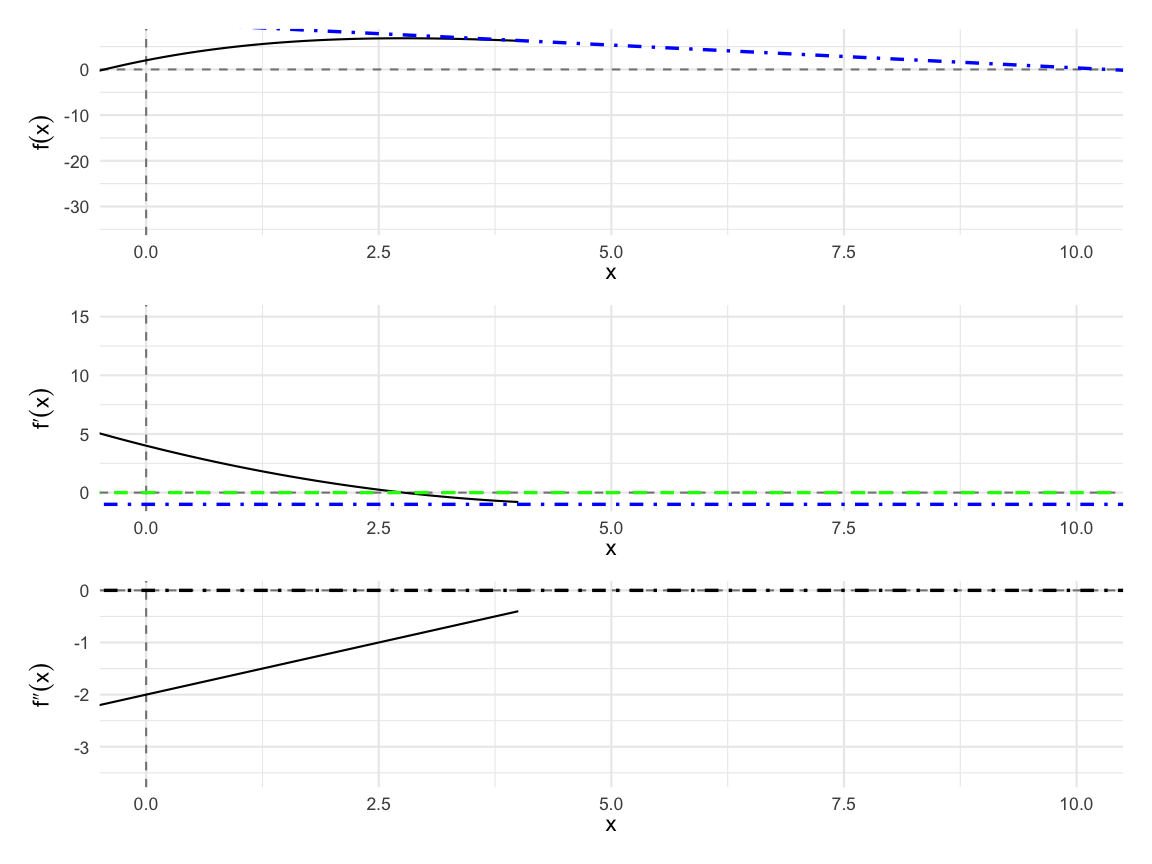
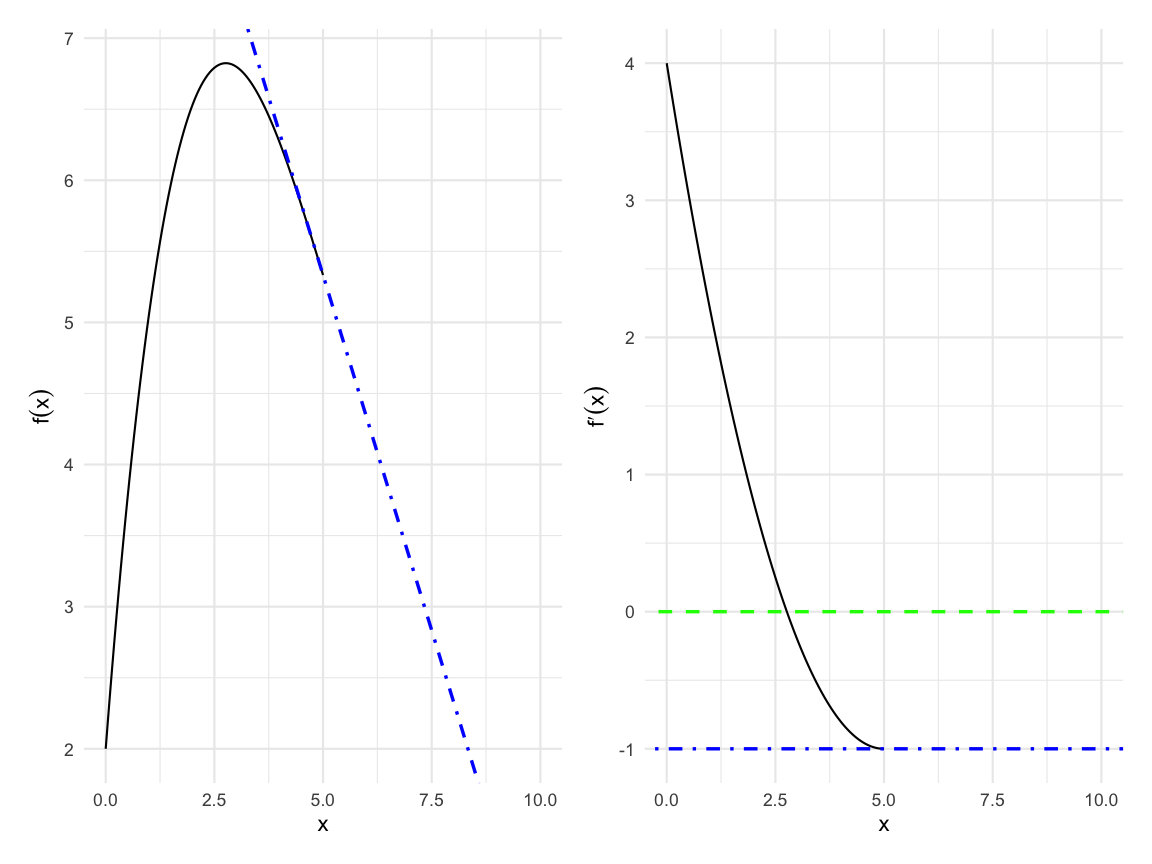
update oh in slides

diff --git a/docs/04-critical-points.html b/docs/04-critical-points.html
@@ -5,6 +5,7 @@
     <meta charset="utf-8" />
     <meta name="author" content="MACS 33000   University of Chicago" />
     <script src="04-critical-points_files/header-attrs/header-attrs.js"></script>
+    <link href="04-critical-points_files/remark-css/default.css" rel="stylesheet" />
     <link rel="stylesheet" href="xaringan-themer.css" type="text/css" />
     <link rel="stylesheet" href="slides-menu.css" type="text/css" />
   </head>
@@ -32,6 +33,7 @@ class: center, middle, inverse, title-slide
 * Gradescope: grading underway -- should be all OK
 * Academic Integrity: workshop upcoming
 * MACSS Orientation 9/23 (expect notices re: scheduling, etc.)
+* JCLIP OH in classroom until 4pm Mon-Thurs!
 
 
 ---
@@ -217,6 +219,59 @@ Let's now consider the same function, but the derivative. We are expecting THE V
 
 &lt;img src="04-critical-points_files/figure-html/inflect-all-1.png" alt="" width="85%" style="display: block; margin: auto;" /&gt;
 
+```
+## $ncol
+## [1] 1
+## 
+## $nrow
+## list()
+## attr(,"class")
+## [1] "waiver"
+## 
+## $byrow
+## list()
+## attr(,"class")
+## [1] "waiver"
+## 
+## $widths
+## list()
+## attr(,"class")
+## [1] "waiver"
+## 
+## $heights
+## list()
+## attr(,"class")
+## [1] "waiver"
+## 
+## $guides
+## list()
+## attr(,"class")
+## [1] "waiver"
+## 
+## $tag_level
+## list()
+## attr(,"class")
+## [1] "waiver"
+## 
+## $axes
+## list()
+## attr(,"class")
+## [1] "waiver"
+## 
+## $axis_titles
+## list()
+## attr(,"class")
+## [1] "waiver"
+## 
+## $design
+## list()
+## attr(,"class")
+## [1] "waiver"
+## 
+## attr(,"class")
+## [1] "plot_layout"
+```
+
 ---
 
 # Concavity
@@ -247,7 +302,7 @@ What does this mean?
 
 # Concavity
 
-* Where a function is twice differentiable and concave over some area, then the function is concave down where `\(f''(x) &lt; 0\)` and concave up where `\(f''(x) &gt; 0\)`
+* Where a function is twice differentiable and concave over some area, then the function is **concave down where `\(f''(x) &lt; 0\)`** and where `\(f''(x) &gt; 0\)` is **concave up**. Recall: `\(f(x)=(x^3 - 15 * x^2 + 60 * x + 30) / 15\)`.
 
 &lt;img src="04-critical-points_files/figure-html/concave-1.png" alt="" width="85%" style="display: block; margin: auto;" /&gt;
 
@@ -324,7 +379,11 @@ How would we evaluate the extreme values here?
 &lt;img src="04-critical-points_files/figure-html/endpoints-1.png" alt="" width="85%" style="display: block; margin: auto;" /&gt;
 
 
---
+---
+# Types of extreme values: Examples
+
+How would we evaluate the extreme values here? 
+&lt;img src="04-critical-points_files/figure-html/endpoints2-1.png" alt="" width="25%" style="display: block; margin: auto;" /&gt;
 
 * Derivative of the function: `\(f'(x) = 1\)`
 * Set to zero and solve. (n/a)
@@ -440,7 +499,7 @@ $$
 * Log-likelihood
     * `\(f:\mathbb{R} \rightarrow (0, \infty)\)`
     * If `\(x_{0}\)` maximizes `\(f\)`, then `\(x_{0}\)` maximizes `\(\log(f(x))\)`
-* Maximize the log-likelihood instead
+* Maximize the log-likelihood instead (easier math!)
 
 ---
 
@@ -491,10 +550,10 @@ $$
 ---
 
 # Maximum likelihood estimation: MLE in life
-Logit and other limited-dependent variable models: what function creates a curve that best predicts our outcome variable? 
+Logit and other limited-dependent variable models: what parameter estimate makes the observed pattern most likely?
 
 * Simplest example: 0s and 1s as outcome
-* Trying to determine which function best predicts the outcome for parameter estimates
+* Trying to determine which value of `\(\beta\)` best predicts the outcomes observed
 
 ---
 
@@ -963,15 +1022,15 @@ Now, let's try this together -- work with a partner. Are these matrices linearly
 * **Step 1: write out**
 $$
 `\begin{aligned}
-4\alpha + 2\beta + 1\gamma &amp;= 0 \\
-3\alpha + 1\beta + 1\gamma &amp;= 0 \\
-3\alpha - 1\beta + 2\gamma &amp;= 0
+4\alpha + 2\beta + 1\gamma &amp;= 0 (h)\\
+3\alpha + 1\beta + 1\gamma &amp;= 0 (j)\\
+3\alpha - 1\beta + 2\gamma &amp;= 0 (k)
 \end{aligned}`
 $$
 
 --
 
-* **Step 2: manipulate**
+* **Step 2: manipulate (j-k)**
 $$
 `\begin{aligned}
 4\alpha + 2\beta + 1\gamma &amp;= 0 \\
